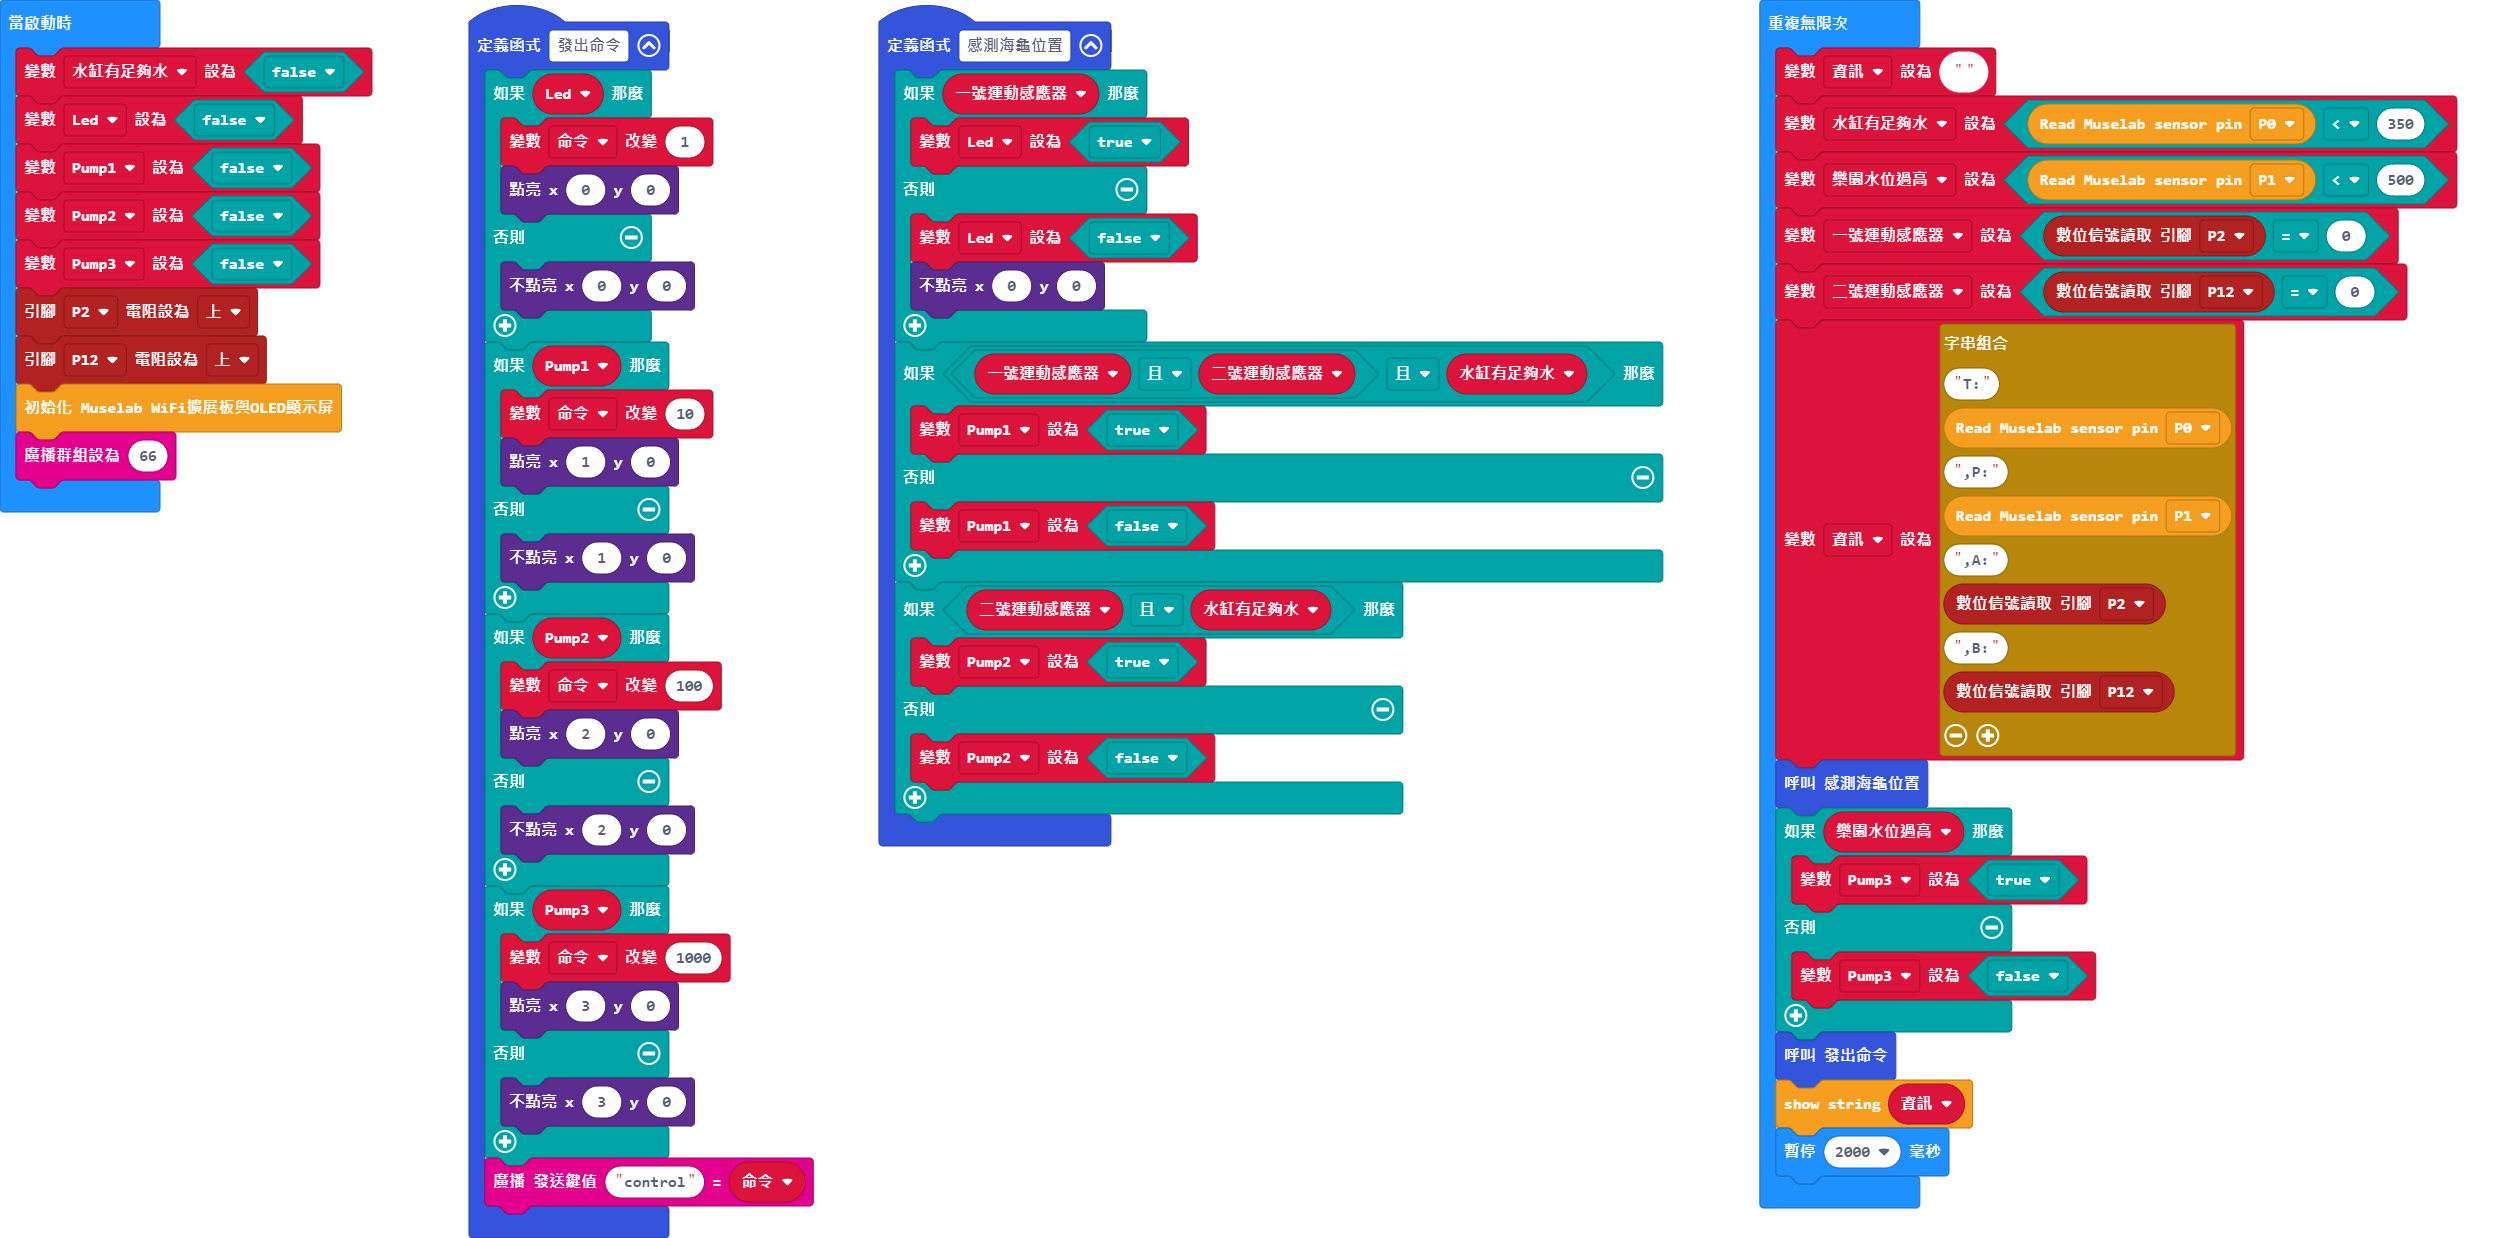
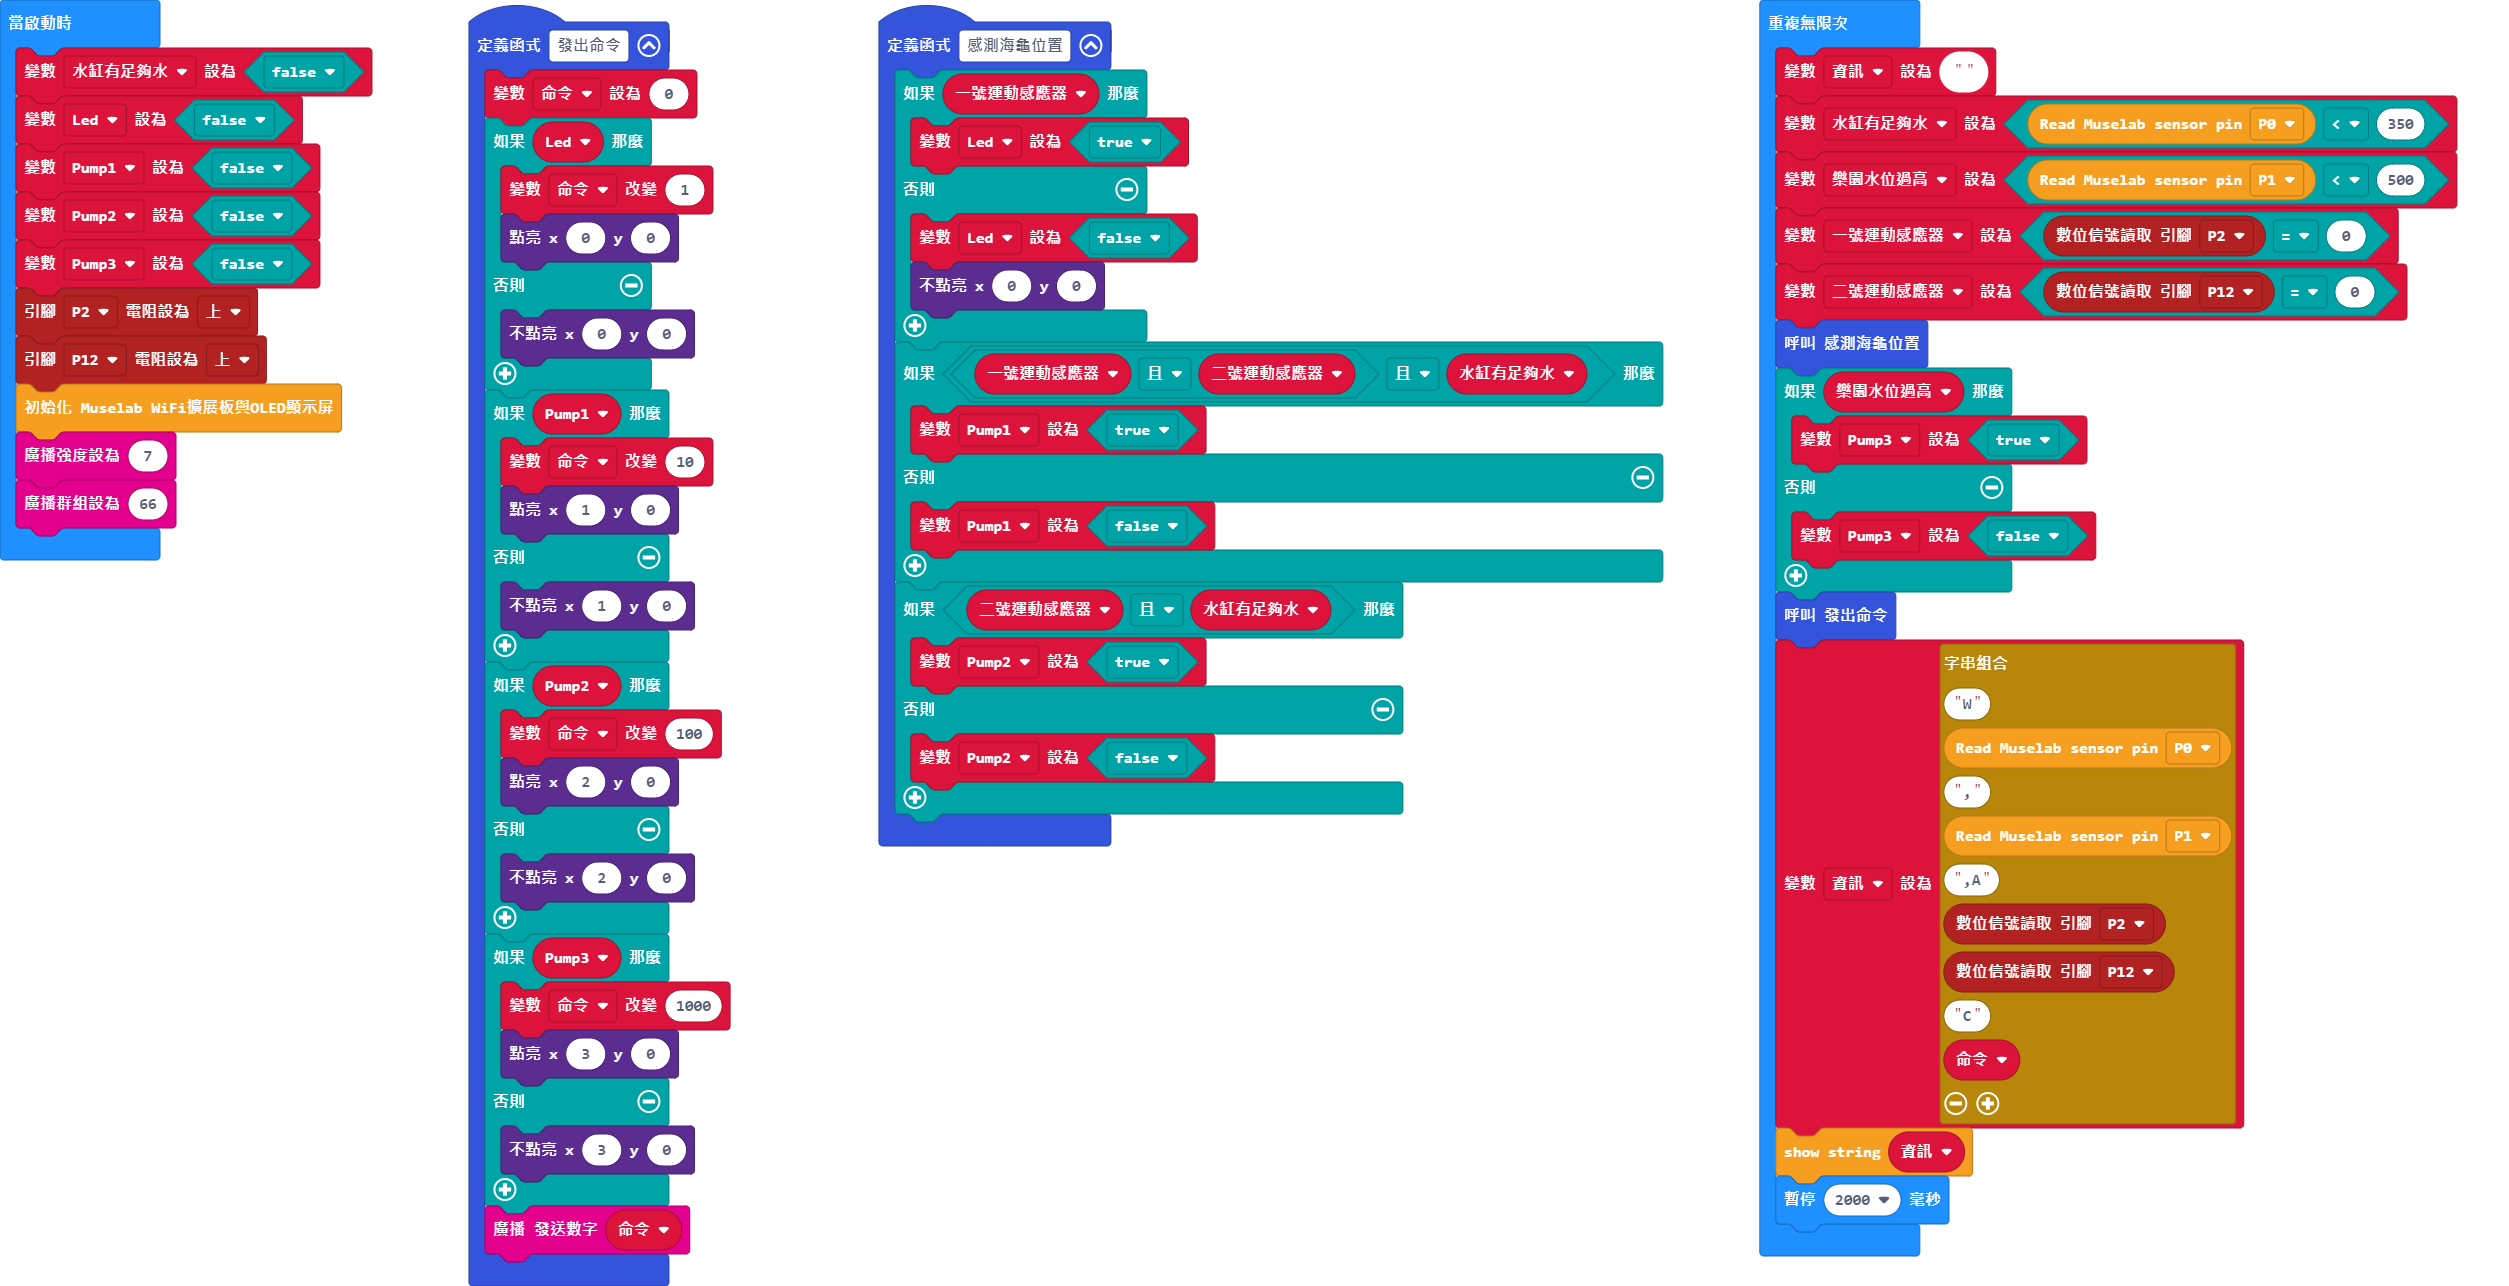
更新 main.blocks, main.ts

Changed region(s): [[0.342, 0.0, 0.9948, 0.9822], [0.1865, 0.0, 0.342, 0.9822], [0.0, 0.0, 0.1554, 0.4604]]

diff --git a/main.ts b/main.ts
@@ -17,6 +17,7 @@ function 感測海龜位置 () {
     }
 }
 function 發出命令 () {
+    命令 = 0
     if (Led) {
         命令 += 1
         led.plot(0, 0)
@@ -41,7 +42,7 @@ function 發出命令 () {
     } else {
         led.unplot(3, 0)
     }
-    radio.sendValue("control", 命令)
+    radio.sendNumber(命令)
 }
 let 樂園水位過高 = false
 let 資訊 = ""
@@ -61,6 +62,7 @@ Pump3 = false
 pins.setPull(DigitalPin.P2, PinPullMode.PullUp)
 pins.setPull(DigitalPin.P12, PinPullMode.PullUp)
 MuseIoT.initializeWifi()
+radio.setTransmitPower(7)
 radio.setGroup(66)
 basic.forever(function () {
     資訊 = ""
@@ -68,7 +70,6 @@ basic.forever(function () {
     樂園水位過高 = Muse21.ReadInputSensor(AnalogPin.P1) < 500
     一號運動感應器 = pins.digitalReadPin(DigitalPin.P2) == 0
     二號運動感應器 = pins.digitalReadPin(DigitalPin.P12) == 0
-    資訊 = "T:" + Muse21.ReadInputSensor(AnalogPin.P0) + ",P:" + Muse21.ReadInputSensor(AnalogPin.P1) + ",A:" + pins.digitalReadPin(DigitalPin.P2) + ",B:" + pins.digitalReadPin(DigitalPin.P12)
     感測海龜位置()
     if (樂園水位過高) {
         Pump3 = true
@@ -76,6 +77,7 @@ basic.forever(function () {
         Pump3 = false
     }
     發出命令()
+    資訊 = "W" + Muse21.ReadInputSensor(AnalogPin.P0) + "," + Muse21.ReadInputSensor(AnalogPin.P1) + ",A" + pins.digitalReadPin(DigitalPin.P2) + pins.digitalReadPin(DigitalPin.P12) + "C" + 命令
     MuseOLED.writeStringNewLine(資訊)
     basic.pause(2000)
 })
